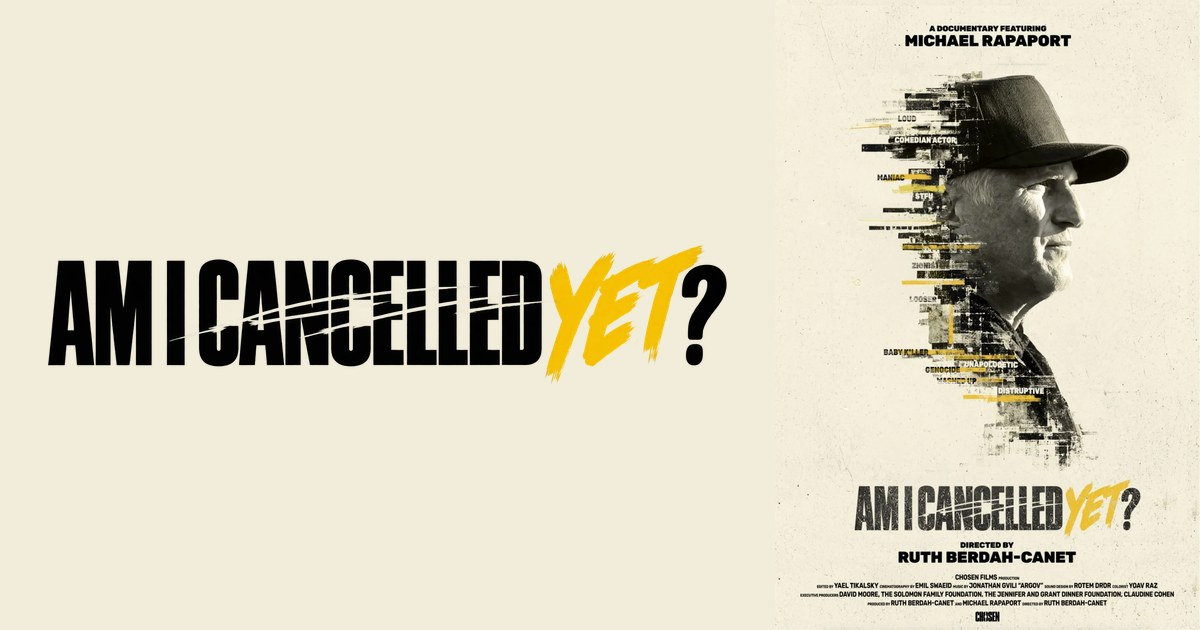
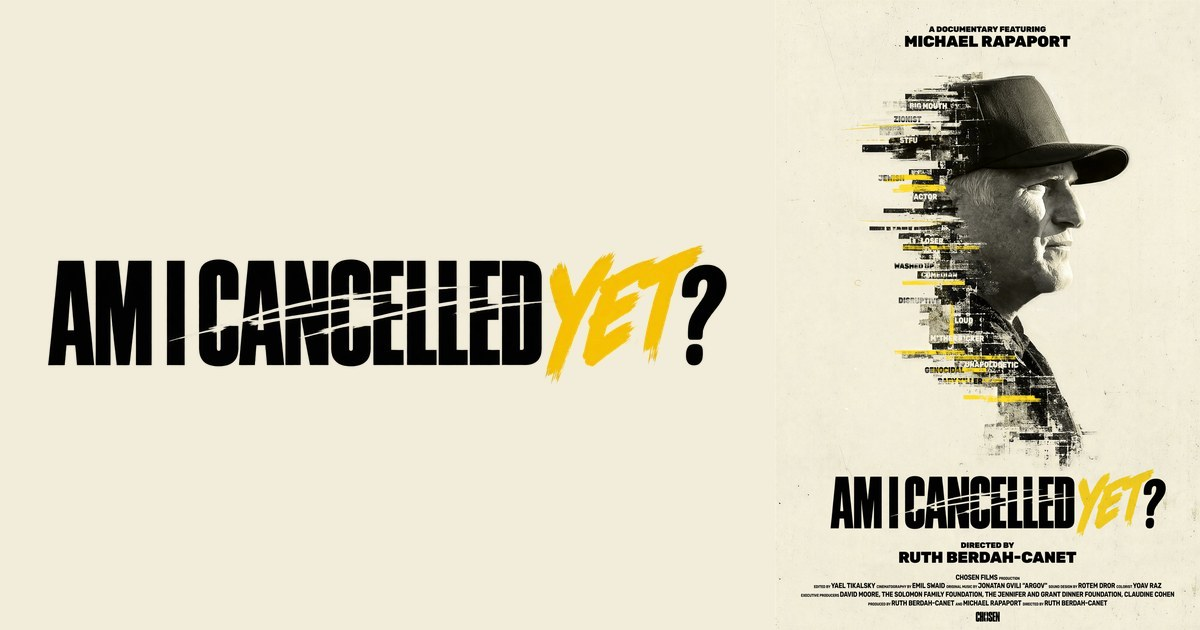
Swap in new poster (fixes DISRUPTIVE typo) and rebuild social share image
Claude-Session: https://claude.ai/code/session_01Ncc7f8pwScxYYURMVjgMyA

diff --git a/index.html b/index.html
@@ -26,14 +26,14 @@
 <meta property="og:title" content="Am I Cancelled Yet? | A documentary featuring Michael Rapaport">
 <meta property="og:description" content="Am I Cancelled Yet? is a documentary featuring Michael Rapaport, directed by Ruth Berdah-Canet. Stand-up comedy meets real life after October 7: laughter, grief and a Hollywood career on the line.">
 <meta property="og:url" content="https://www.amicancelledyetfilm.com/">
-<meta property="og:image" content="https://www.amicancelledyetfilm.com/img/og-image.jpg">
+<meta property="og:image" content="https://www.amicancelledyetfilm.com/img/og-image.jpg?v=2">
 <meta property="og:image:width" content="1200">
 <meta property="og:image:height" content="630">
 <meta property="og:image:alt" content="Am I Cancelled Yet? title and poster">
 <meta name="twitter:card" content="summary_large_image">
 <meta name="twitter:title" content="Am I Cancelled Yet? | A documentary featuring Michael Rapaport">
 <meta name="twitter:description" content="Am I Cancelled Yet? is a documentary featuring Michael Rapaport, directed by Ruth Berdah-Canet. Stand-up comedy meets real life after October 7: laughter, grief and a Hollywood career on the line.">
-<meta name="twitter:image" content="https://www.amicancelledyetfilm.com/img/og-image.jpg">
+<meta name="twitter:image" content="https://www.amicancelledyetfilm.com/img/og-image.jpg?v=2">
 <link rel="alternate" type="text/markdown" title="LLM summary" href="/llms.txt">
 <script type="application/ld+json">
 {
@@ -560,7 +560,7 @@ h1,h2,h3,p{margin:0}
   <section class="section wrap" id="film" aria-labelledby="film-title">
     <div class="film">
       <div class="film__poster">
-        <img src="img/poster.webp?v=4" alt="Am I Cancelled Yet? poster: Michael Rapaport in profile, his silhouette breaking apart into glitched fragments of labels like Big Mouth, Loud and Unapologetic" width="1080" height="1600" loading="lazy">
+        <img src="img/poster.webp?v=5" alt="Am I Cancelled Yet? poster: Michael Rapaport in profile, his silhouette breaking apart into glitched fragments of labels like Big Mouth, Loud and Unapologetic" width="1080" height="1600" loading="lazy">
       </div>
       <div class="film__text">
         <div>
